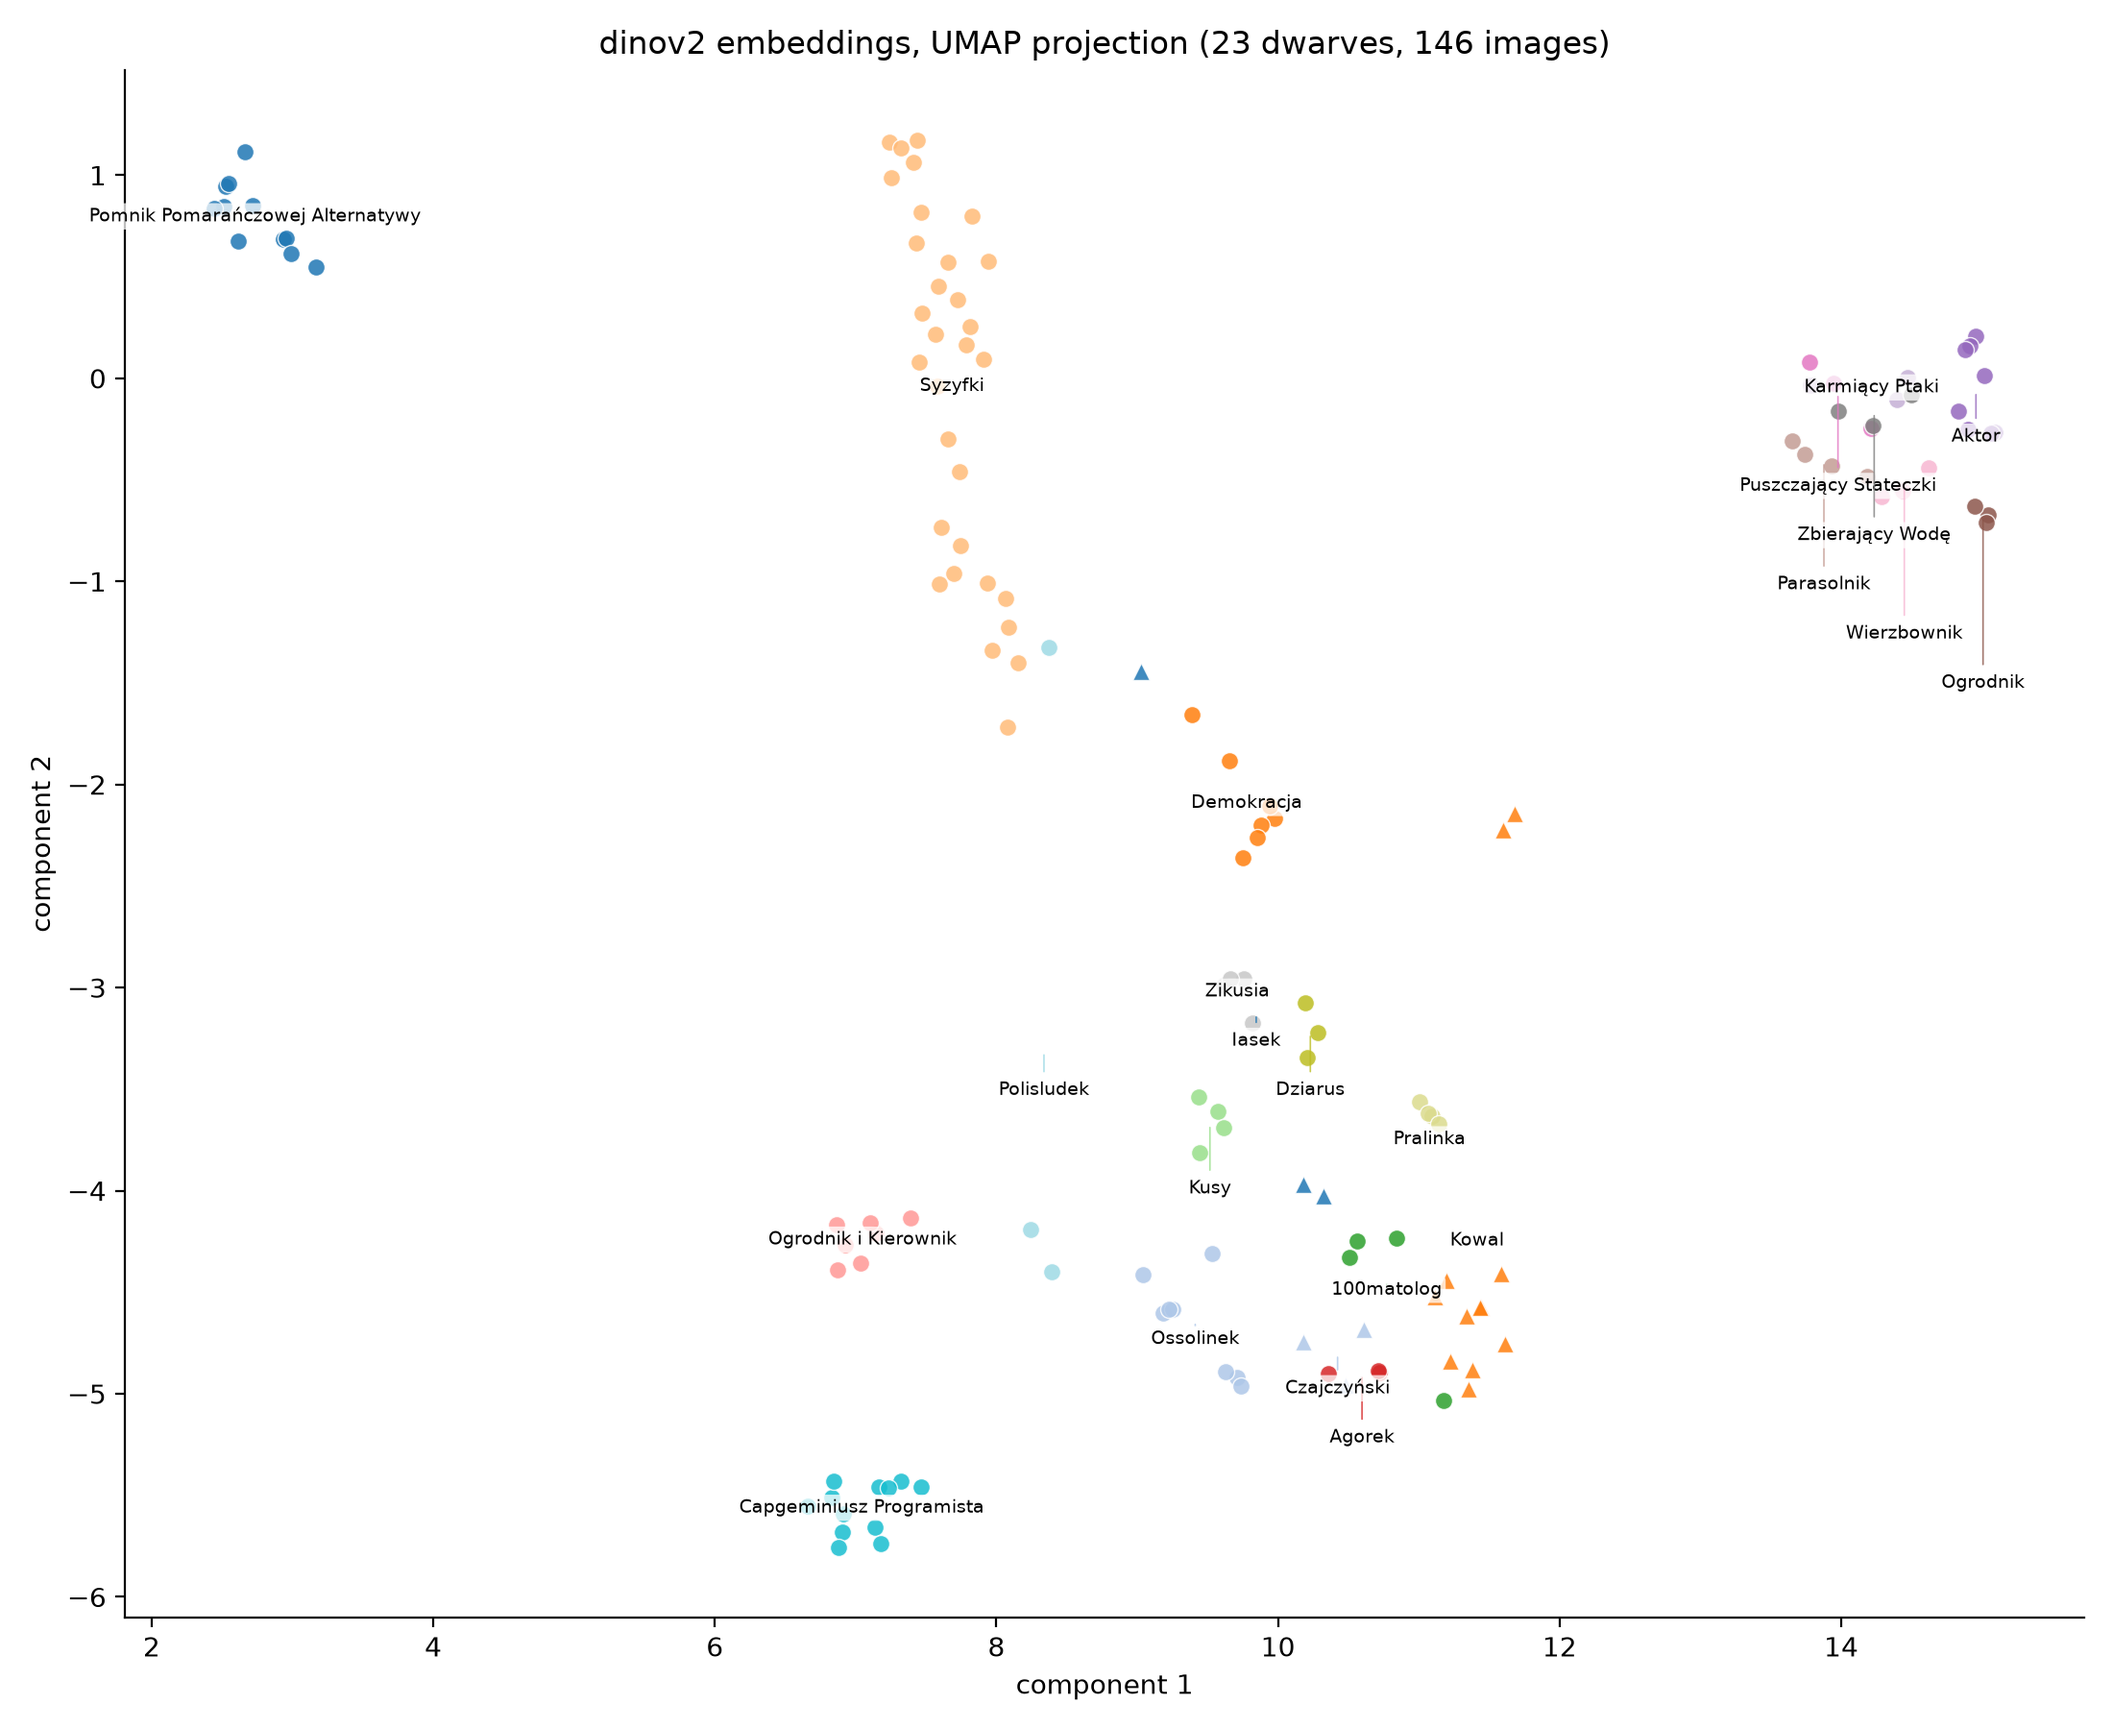
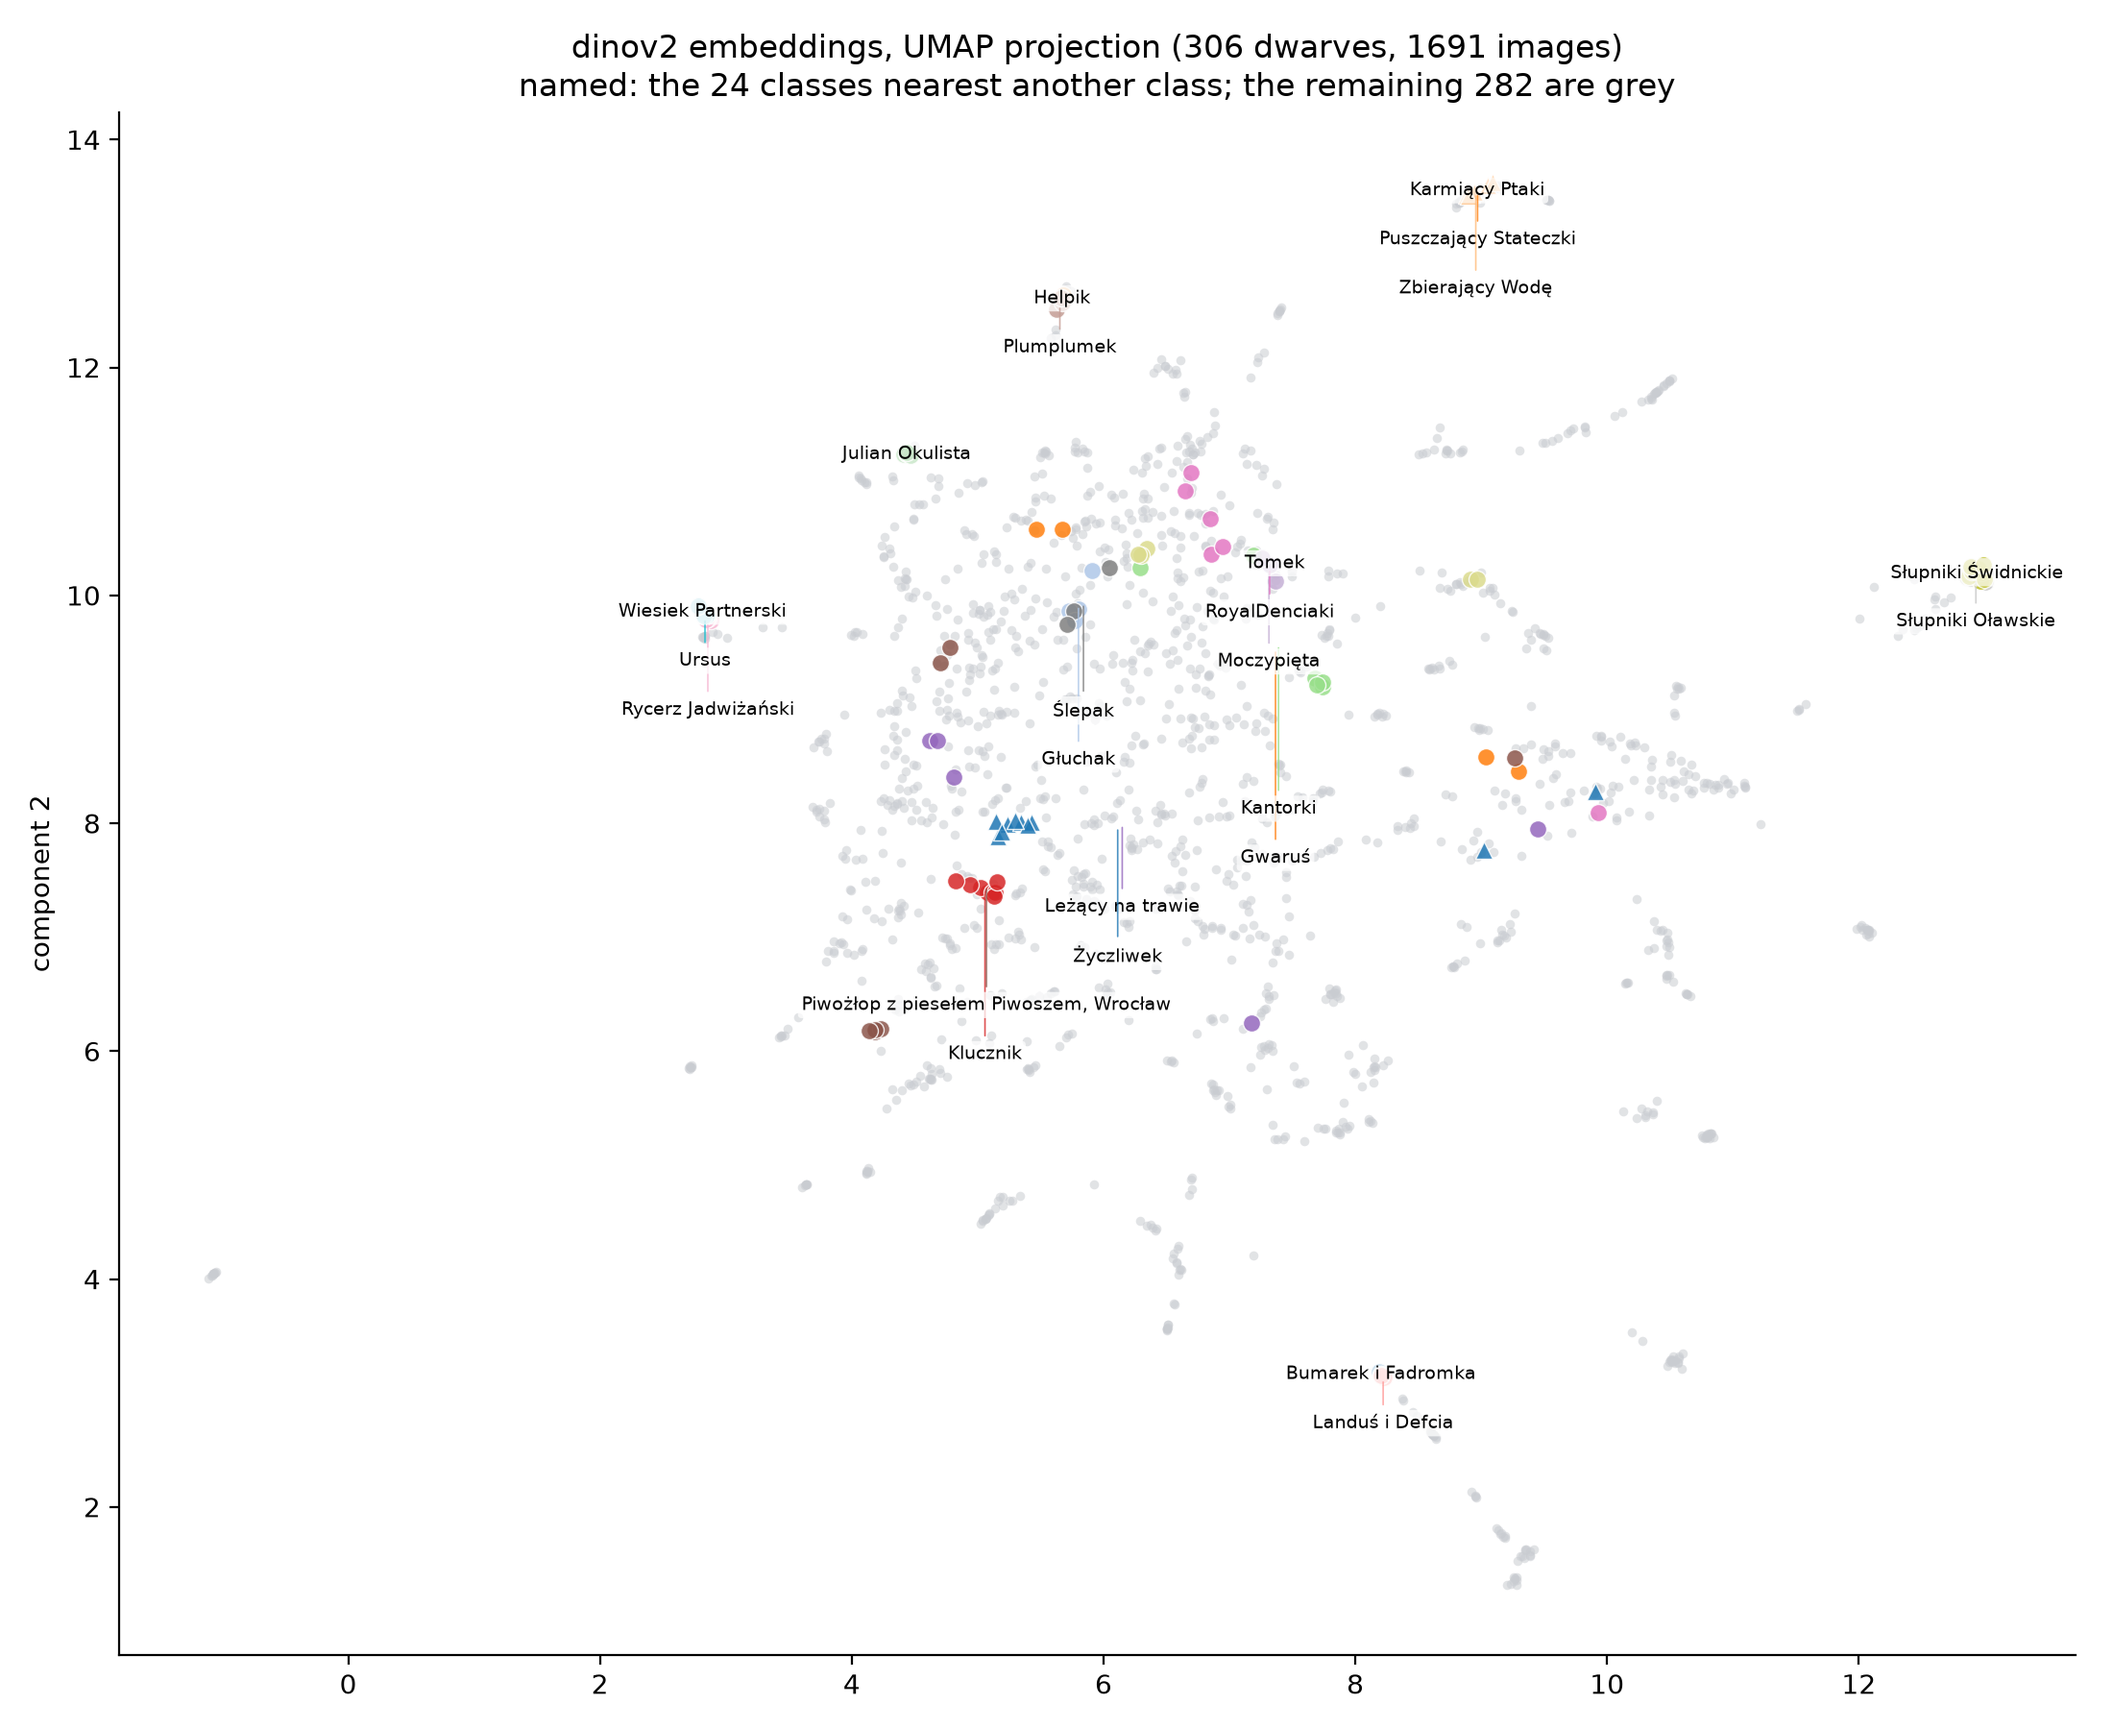
fix: make the embedding projection readable at 306 classes
Naming every class beat a legend at 23. At 306 it is what makes the figure
unreadable: the labels overlap into a wall of leader lines that hides the
structure they were meant to show.

Past a 24-class budget the figure now names only the classes nearest another
class, drawing the rest as faint grey context. Ranking by distance to the nearest
other centroid needs nothing but the projection, and it selects exactly what this
figure exists to argue: a class sitting on top of another is where confusion
comes from. It independently picks out the water trio, the Słupniki pair and
Ślepak/Głuchak -- the same clusters the confusion analysis reports. At or under
the budget every class is still named, so small pools are unchanged.

Figures regenerated at the new dataset size and republished to docs/figures.

diff --git a/src/krasnal_id/viz/embedding_plot.py b/src/krasnal_id/viz/embedding_plot.py
@@ -25,6 +25,10 @@ class VisualizationError(ValueError):
     """Raised when a projection cannot be configured or written."""
 
 
+# Past this many classes, naming every one is what makes the figure unreadable.
+_LABEL_BUDGET = 24
+
+
 def import_optional_analysis(module_name: str) -> Any:
     """Import an optional analysis dependency only when plotting is requested."""
     try:
@@ -104,14 +108,39 @@ def declutter_labels(
     return placed
 
 
+def most_entangled(centroids: npt.NDArray[np.float32], budget: int) -> list[int]:
+    """Return the classes closest to another class, nearest neighbour first.
+
+    These are the ones the figure exists to show: a class sitting on top of
+    another is where confusion comes from. Ranking by distance to the nearest
+    *other* centroid picks them out of a crowded projection without needing the
+    confusion analysis to have been run.
+    """
+    if centroids.shape[0] < 2:
+        return list(range(centroids.shape[0]))
+    deltas = centroids[:, None, :] - centroids[None, :, :]
+    distances = np.linalg.norm(deltas, axis=2)
+    np.fill_diagonal(distances, np.inf)
+    nearest = distances.min(axis=1)
+    return sorted(np.argsort(nearest)[:budget].tolist())
+
+
 def render_projection(
     projected: npt.NDArray[np.float32],
     dwarf_ids: tuple[str, ...],
     display_names: dict[str, str],
     title: str,
     path: Path,
+    label_budget: int = _LABEL_BUDGET,
 ) -> Path:
-    """Draw and save the projection, labeling each class at its centroid."""
+    """Draw and save the projection, labeling the classes worth reading.
+
+    Every class is named while the pool is small enough for that to be legible.
+    Past `label_budget` classes it is not: 306 names overlap into a wall of leader
+    lines that hides the structure it was meant to show. Beyond that the figure
+    keeps colour and names for the most entangled classes and draws the rest as
+    faint grey context, so the crowding is still visible but no longer illegible.
+    """
     matplotlib = import_optional_analysis("matplotlib")
     # Select a non-interactive backend before pyplot binds one, so the figure
     # renders on headless machines and in CI.
@@ -131,28 +160,42 @@ def render_projection(
         float(np.ptp(projected[:, 0])) or 1.0,
         float(np.ptp(projected[:, 1])) or 1.0,
     )
-    label_positions = declutter_labels(centroids, span)
+    labelled = (
+        list(range(len(classes)))
+        if len(classes) <= label_budget
+        else most_entangled(centroids, label_budget)
+    )
+    label_positions = declutter_labels(centroids[labelled], span)
 
+    # Context first, so the labelled classes are drawn on top of the crowd.
     for index, dwarf_id in enumerate(classes):
-        rows = np.flatnonzero(ids == dwarf_id)
-        points = projected[rows]
-        color = colormap(index % _PALETTE_SIZE)
+        if index in set(labelled):
+            continue
+        points = projected[np.flatnonzero(ids == dwarf_id)]
+        axes.scatter(
+            points[:, 0], points[:, 1], color="#c9ccd1", marker="o", s=12, alpha=0.55, linewidths=0
+        )
+
+    for position, index in enumerate(labelled):
+        dwarf_id = classes[index]
+        points = projected[np.flatnonzero(ids == dwarf_id)]
+        color = colormap(position % _PALETTE_SIZE)
         axes.scatter(
             points[:, 0],
             points[:, 1],
             color=color,
-            marker=_MARKERS[(index // _PALETTE_SIZE) % len(_MARKERS)],
+            marker=_MARKERS[(position // _PALETTE_SIZE) % len(_MARKERS)],
             s=42,
             alpha=0.85,
             edgecolors="white",
             linewidths=0.5,
         )
-        # A legend of twenty-plus entries is unreadable, so each class is named
-        # near its own points, with a leader line when it had to be moved.
+        # Named beside its own points rather than in a legend, with a leader line
+        # when the label had to be moved clear of a neighbour.
         axes.annotate(
             display_names.get(dwarf_id, dwarf_id),
             xy=tuple(centroids[index]),
-            xytext=tuple(label_positions[index]),
+            xytext=tuple(label_positions[position]),
             fontsize=7,
             ha="center",
             va="center",
@@ -161,8 +204,13 @@ def render_projection(
             arrowprops={"arrowstyle": "-", "color": color, "lw": 0.6, "alpha": 0.8},
         )
 
-    axes.set_title(title)
-    axes.set_xlabel("component 1")
+    if len(classes) > label_budget:
+        axes.set_title(
+            f"{title}\nnamed: the {len(labelled)} classes nearest another class; "
+            f"the remaining {len(classes) - len(labelled)} are grey"
+        )
+    else:
+        axes.set_xlabel("component 1")
     axes.set_ylabel("component 2")
     axes.spines["top"].set_visible(False)
     axes.spines["right"].set_visible(False)

diff --git a/tests/test_visualization.py b/tests/test_visualization.py
@@ -23,7 +23,9 @@ from krasnal_id.viz.embedding_plot import (
     declutter_labels,
     figure_path,
     import_optional_analysis,
+    most_entangled,
     project_embeddings,
+    render_projection,
 )
 
 
@@ -173,3 +175,45 @@ def test_cli_visualization_writes_a_figure_and_fails_without_embeddings(tmp_path
     assert result.exit_code == 0, result.output
     assert "Embedding visualization complete" in result.output
     assert (tmp_path / "results" / "embeddings-tsne-dinov2.png").is_file()
+
+
+def test_entanglement_ranks_the_classes_sitting_on_top_of_each_other() -> None:
+    import numpy as np
+
+    # Two centroids nearly coincide; the third is far away.
+    centroids = np.asarray([[0.0, 0.0], [0.1, 0.0], [10.0, 10.0]], dtype=np.float32)
+
+    assert most_entangled(centroids, 2) == [0, 1]
+    assert most_entangled(centroids, 3) == [0, 1, 2]
+    # Degenerate inputs stay usable rather than raising.
+    assert most_entangled(np.zeros((1, 2), dtype=np.float32), 5) == [0]
+    assert most_entangled(np.zeros((0, 2), dtype=np.float32), 5) == []
+
+
+def test_a_crowded_projection_labels_only_its_budget(tmp_path: Path) -> None:
+    import numpy as np
+
+    rng = np.random.default_rng(0)
+    classes = tuple(f"Q{i + 1}" for i in range(40) for _ in range(2))
+    projected = rng.normal(size=(len(classes), 2)).astype(np.float32)
+
+    path = render_projection(
+        projected,
+        classes,
+        {c: c for c in classes},
+        "crowded",
+        tmp_path / "crowded.png",
+        label_budget=5,
+    )
+
+    assert path.is_file()
+    # Under the budget every class is still named, which keeps small pools unchanged.
+    small = tuple(f"Q{i + 1}" for i in range(3) for _ in range(2))
+    assert render_projection(
+        projected[: len(small)],
+        small,
+        {c: c for c in small},
+        "small",
+        tmp_path / "small.png",
+        label_budget=5,
+    ).is_file()
